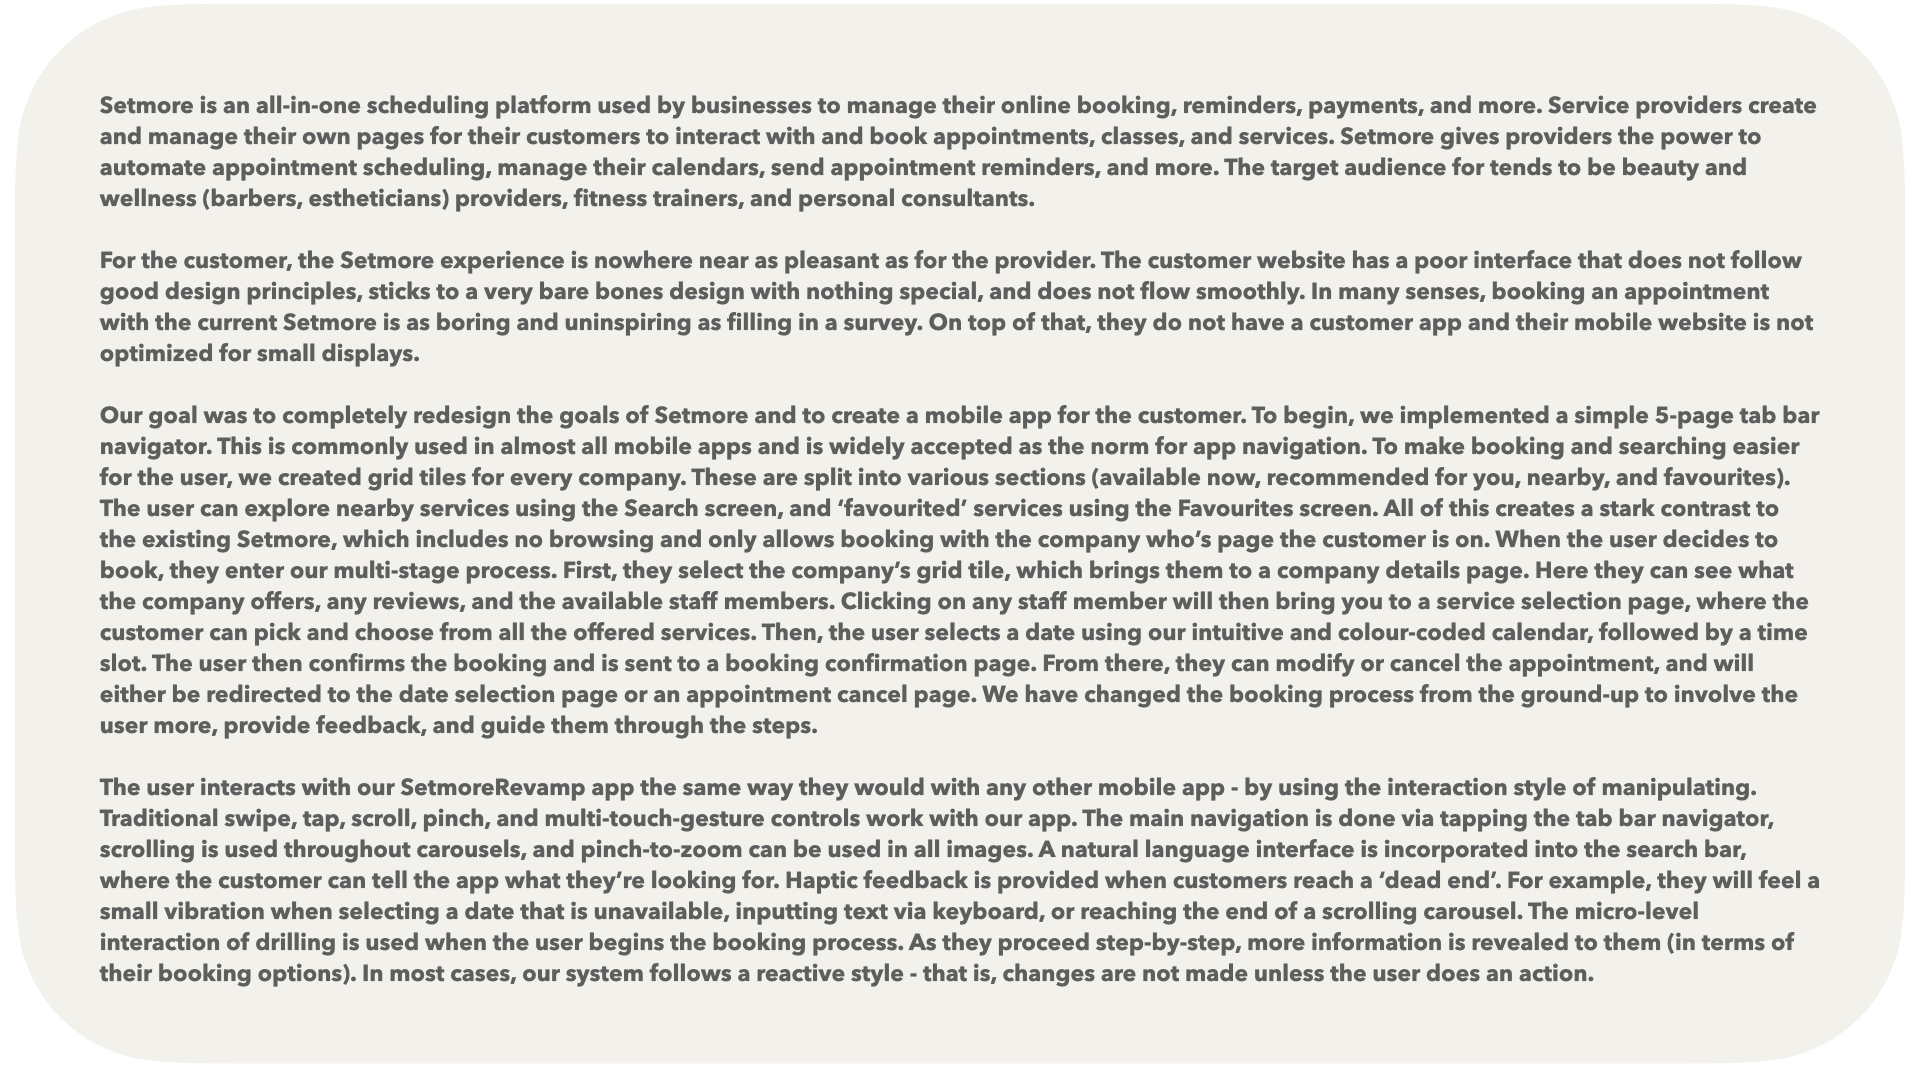
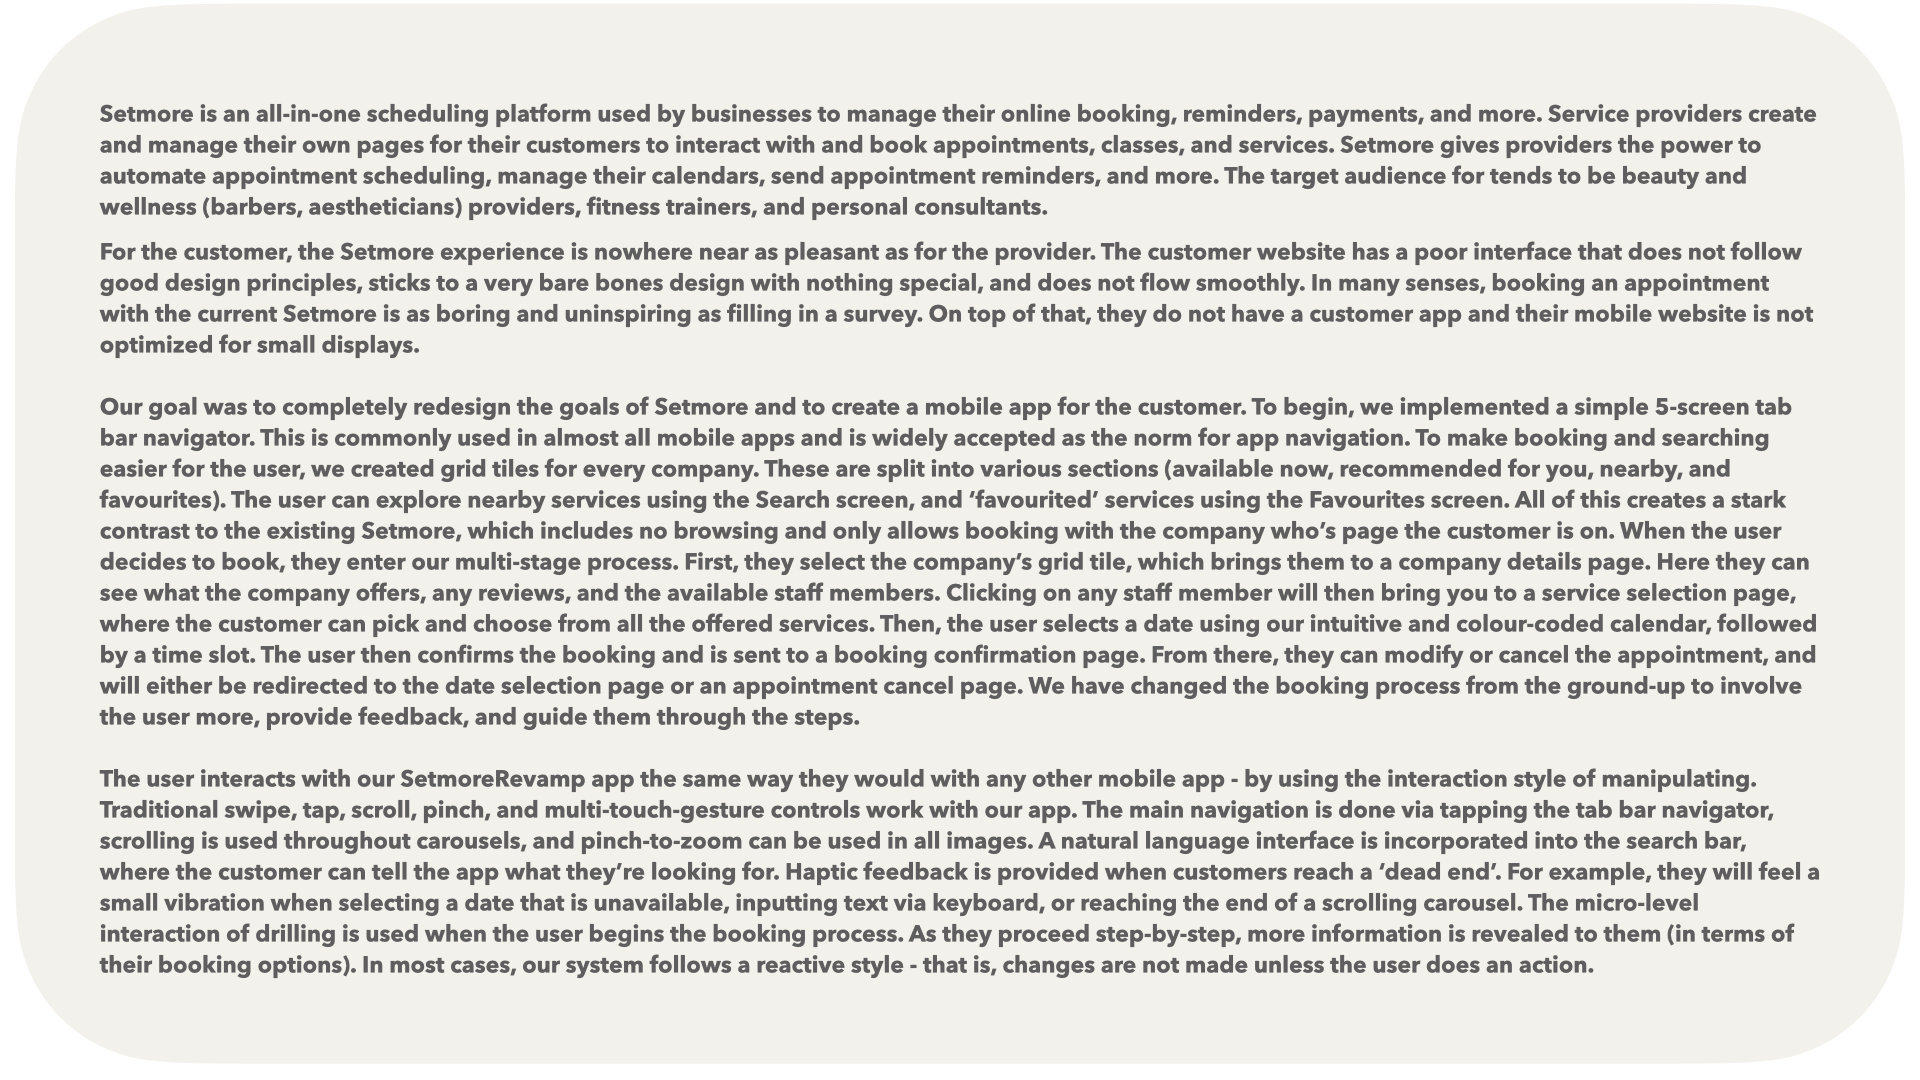
Edited all executive summary
All new ones, edited and good to go. Split the micro into 2 slides because was overwelming text.

Changed index to include second slide.

Changed region(s): [[0.0312, 0.3667, 0.9688, 0.9167], [0.0312, 0.0917, 0.9688, 0.3361]]

diff --git a/index.html b/index.html
@@ -16,11 +16,10 @@
               <img src="./execsummary/execsummary.001.jpeg" alt="execsummary" width="100%" >
               <h3>Micro Level Interactivity</h3>
               <img src="./execsummary/execsummary.002.jpeg" alt="execsummary" width="100%" >
-              <h3>Macro Level Interactivity</h3>
               <img src="./execsummary/execsummary.003.jpeg" alt="execsummary" width="100%" >
-
-               
-               
+              <h3>Macro Level Interactivity</h3>
+              <img src="./execsummary/execsummary.004.jpeg" alt="execsummary" width="100%" >
+            
                <div class="rest">
          <h2>Navigational Map of System</h2>
          <center>
